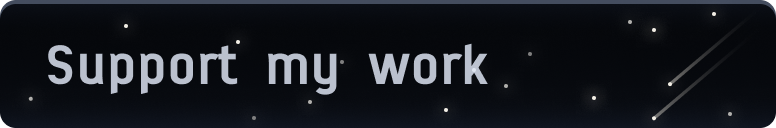
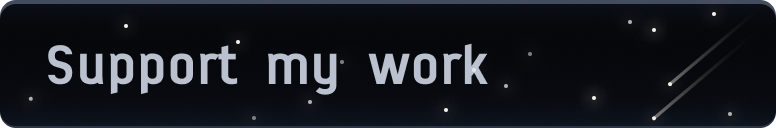
update the support me button

Changed region(s): [[0.0, 0.9688, 0.9897, 1.0], [0.9897, 0.9375, 1.0, 0.9688]]

diff --git a/apps/website/scss/header.scss b/apps/website/scss/header.scss
@@ -130,8 +130,11 @@
   &__magic-button {
     margin-left: auto;
     height: 32px;
-    filter: drop-shadow(0 0 2px #111);
     cursor: pointer;
+
+    &:hover {
+      filter: drop-shadow(0 0 2px #111);
+    }
   }
 }
 
